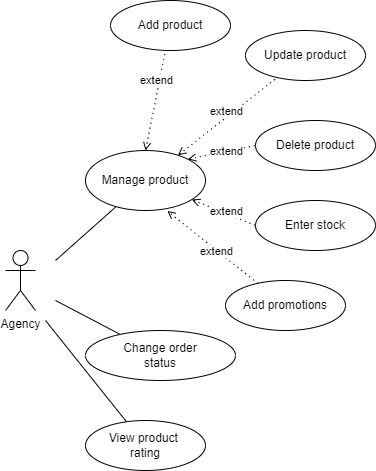
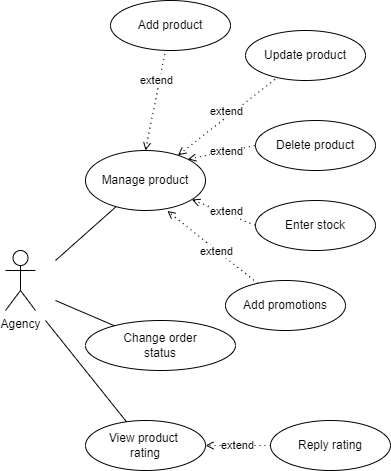
Sub agency

diff --git a/backend/bnShopApi/accounts/models.py b/backend/bnShopApi/accounts/models.py
@@ -103,7 +103,17 @@ class Agency(models.Model):
     identify = models.CharField(max_length=12,unique=True)
     def __str__(self):
         return self.user.name
-    
+
+class RoleAgency(models.Model):
+    ROLES = ((1,'Product'),(2,'Rating'),(3,'Order'))
+    role = models.IntegerField(choices=ROLES)
+
+class SubAgency(models.Model):
+    user = models.OneToOneField(Users,on_delete=models.CASCADE,related_name='agency')
+    agency = models.ForeignKey(Agency,on_delete=models.CASCADE,related_name='sub_agency')
+    role = models.ManyToManyField(RoleAgency)
+
+
 class Customer(models.Model):
     user = models.OneToOneField(Users,on_delete=models.CASCADE,related_name='customer')
     follow = models.ManyToManyField(Agency,blank=True,related_name='followed')
